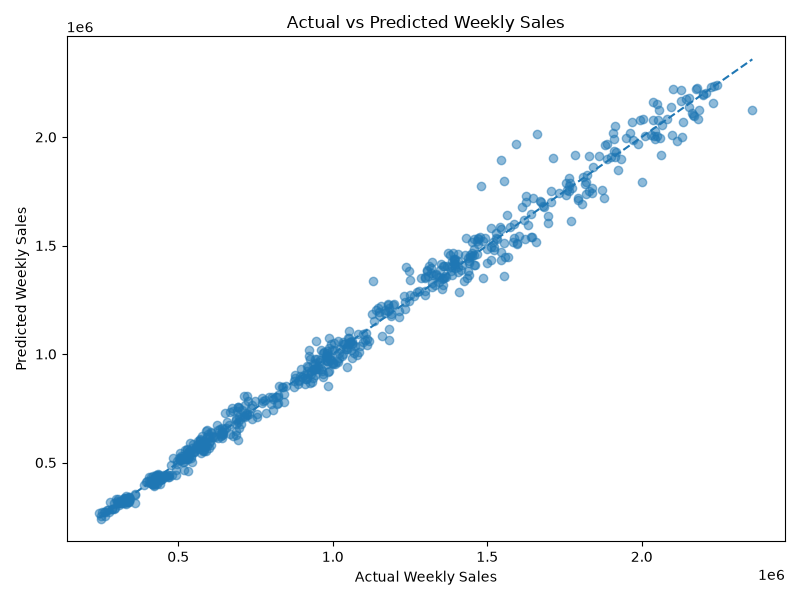
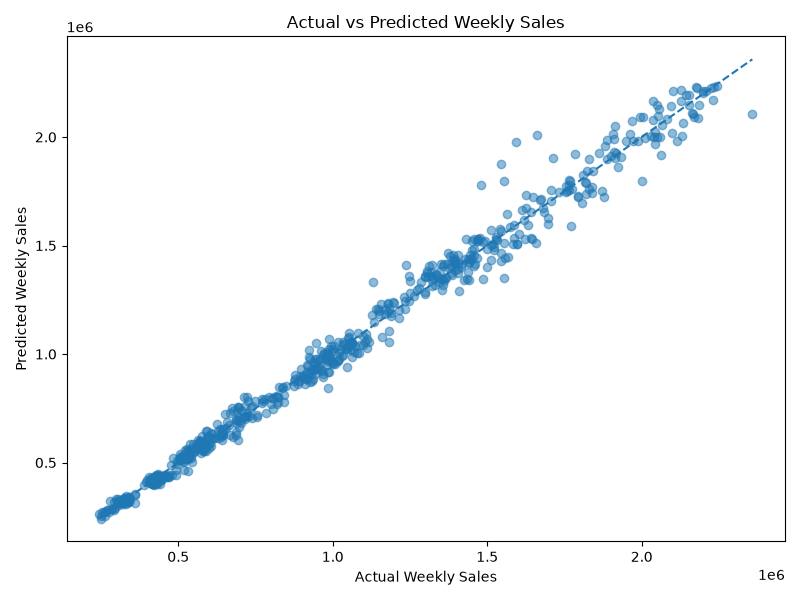
feat: Final Model Evaluation Completed

diff --git a/python/ml/train_model.py b/python/ml/train_model.py
@@ -4,6 +4,7 @@ from sklearn.linear_model import LinearRegression
 from sklearn.metrics import mean_absolute_error, r2_score, mean_squared_error
 import pandas as pd
 import matplotlib.pyplot as plt
+import numpy as np
 from sklearn.model_selection import RandomizedSearchCV, TimeSeriesSplit
 
 from python.ml.preprocessing import (
@@ -196,13 +197,30 @@ def tune_rf_model():
         "model__max_features":["sqrt","log2",1.0]
     }
 
-    time_split=TimeSeriesSplit(n_splits=5)
+    # Create Time Based Cross Validation split with respect to sales_date
+    unique_train_dates=train_df["sales_date"].sort_values().unique()
+
+    time_splits=TimeSeriesSplit(n_splits=5)
+
+    cv_splits=[]
+
+    for train_date_index, val_date_index in time_splits.split(unique_train_dates):
+        train_dates=unique_train_dates[train_date_index]
+        val_dates=unique_train_dates[val_date_index]
+
+        train_indices=np.flatnonzero(train_df["sales_date"].isin(train_dates).to_numpy())
+
+        val_indices=np.flatnonzero(train_df["sales_date"].isin(val_dates).to_numpy())
+
+        cv_splits.append((train_indices,val_indices))
+
+   # time_split=TimeSeriesSplit(n_splits=5)
 
     search=RandomizedSearchCV(
         pipeline,
         param_distributions=param_grid,
         n_iter=30,
-        cv=time_split,
+        cv=cv_splits,
         scoring="neg_mean_absolute_error",
         n_jobs=-1,
         random_state=42,
@@ -282,6 +300,24 @@ def tune_rf_model():
     plt.savefig("docs/eda/residuals_over_time.png")
     plt.close()
 
+    # Final Model Evaluation with Testing Data
+    y_test_pred=search.predict(X_test)
+
+    test_mae=mean_absolute_error(y_test,y_test_pred)
+
+    test_rmse=mean_squared_error(y_test,y_test_pred) ** 0.5
+
+    test_r2=r2_score(y_test,y_test_pred)
+
+    #Naive Test Baseline Evaluation
+    naive_test_evaluation=X_test["previous_weekly_sales"].copy()
+
+    naive_test_mae=mean_absolute_error(y_test,naive_test_evaluation)
+
+    naive_test_rmse=mean_squared_error(y_test,naive_test_evaluation) ** 0.5
+
+    naive_test_r2=r2_score(y_test,naive_test_evaluation)
+
 
 
 
@@ -313,12 +349,28 @@ def tune_rf_model():
 
     print("\n Actual vs Predicted , Residuals and Residuals Over Time Plots saved in docs/eda folder.")
 
+    print("\nFinal Test Evaluation:")
+    print(f"Test MAE:  {test_mae:,.2f}")
+    print(f"Test RMSE: {test_rmse:,.2f}")
+    print(f"Test R²:   {test_r2:.4f}")
+
+    print("\nNaive Test Baseline:")
+    print(f"Test MAE:  {naive_test_mae:,.2f}")
+    print(f"Test RMSE: {naive_test_rmse:,.2f}")
+    print(f"Test R²:   {naive_test_r2:.4f}")
+
     return (search.best_estimator_, 
             search.best_params_, 
             search.best_score_,
             val_mae,
             val_rmse,
             val_r2, 
+            test_mae,
+            test_rmse,
+            test_r2,
+            naive_test_mae,
+            naive_test_rmse,
+            naive_test_r2,
             feature_importance,
              predictions_result,
              residuals)

diff --git a/python/ml/preprocessing.py b/python/ml/preprocessing.py
@@ -19,7 +19,7 @@ def preprocess_data():
 
     #Sort Dataset by store_id and Sales_date
     df=df.sort_values(
-        by=['store_id','sales_date']
+        by=['sales_date','store_id']
     ).reset_index(drop=True)
 
     print("\n Datetime Conversion And Sorting Completed Successfully")
